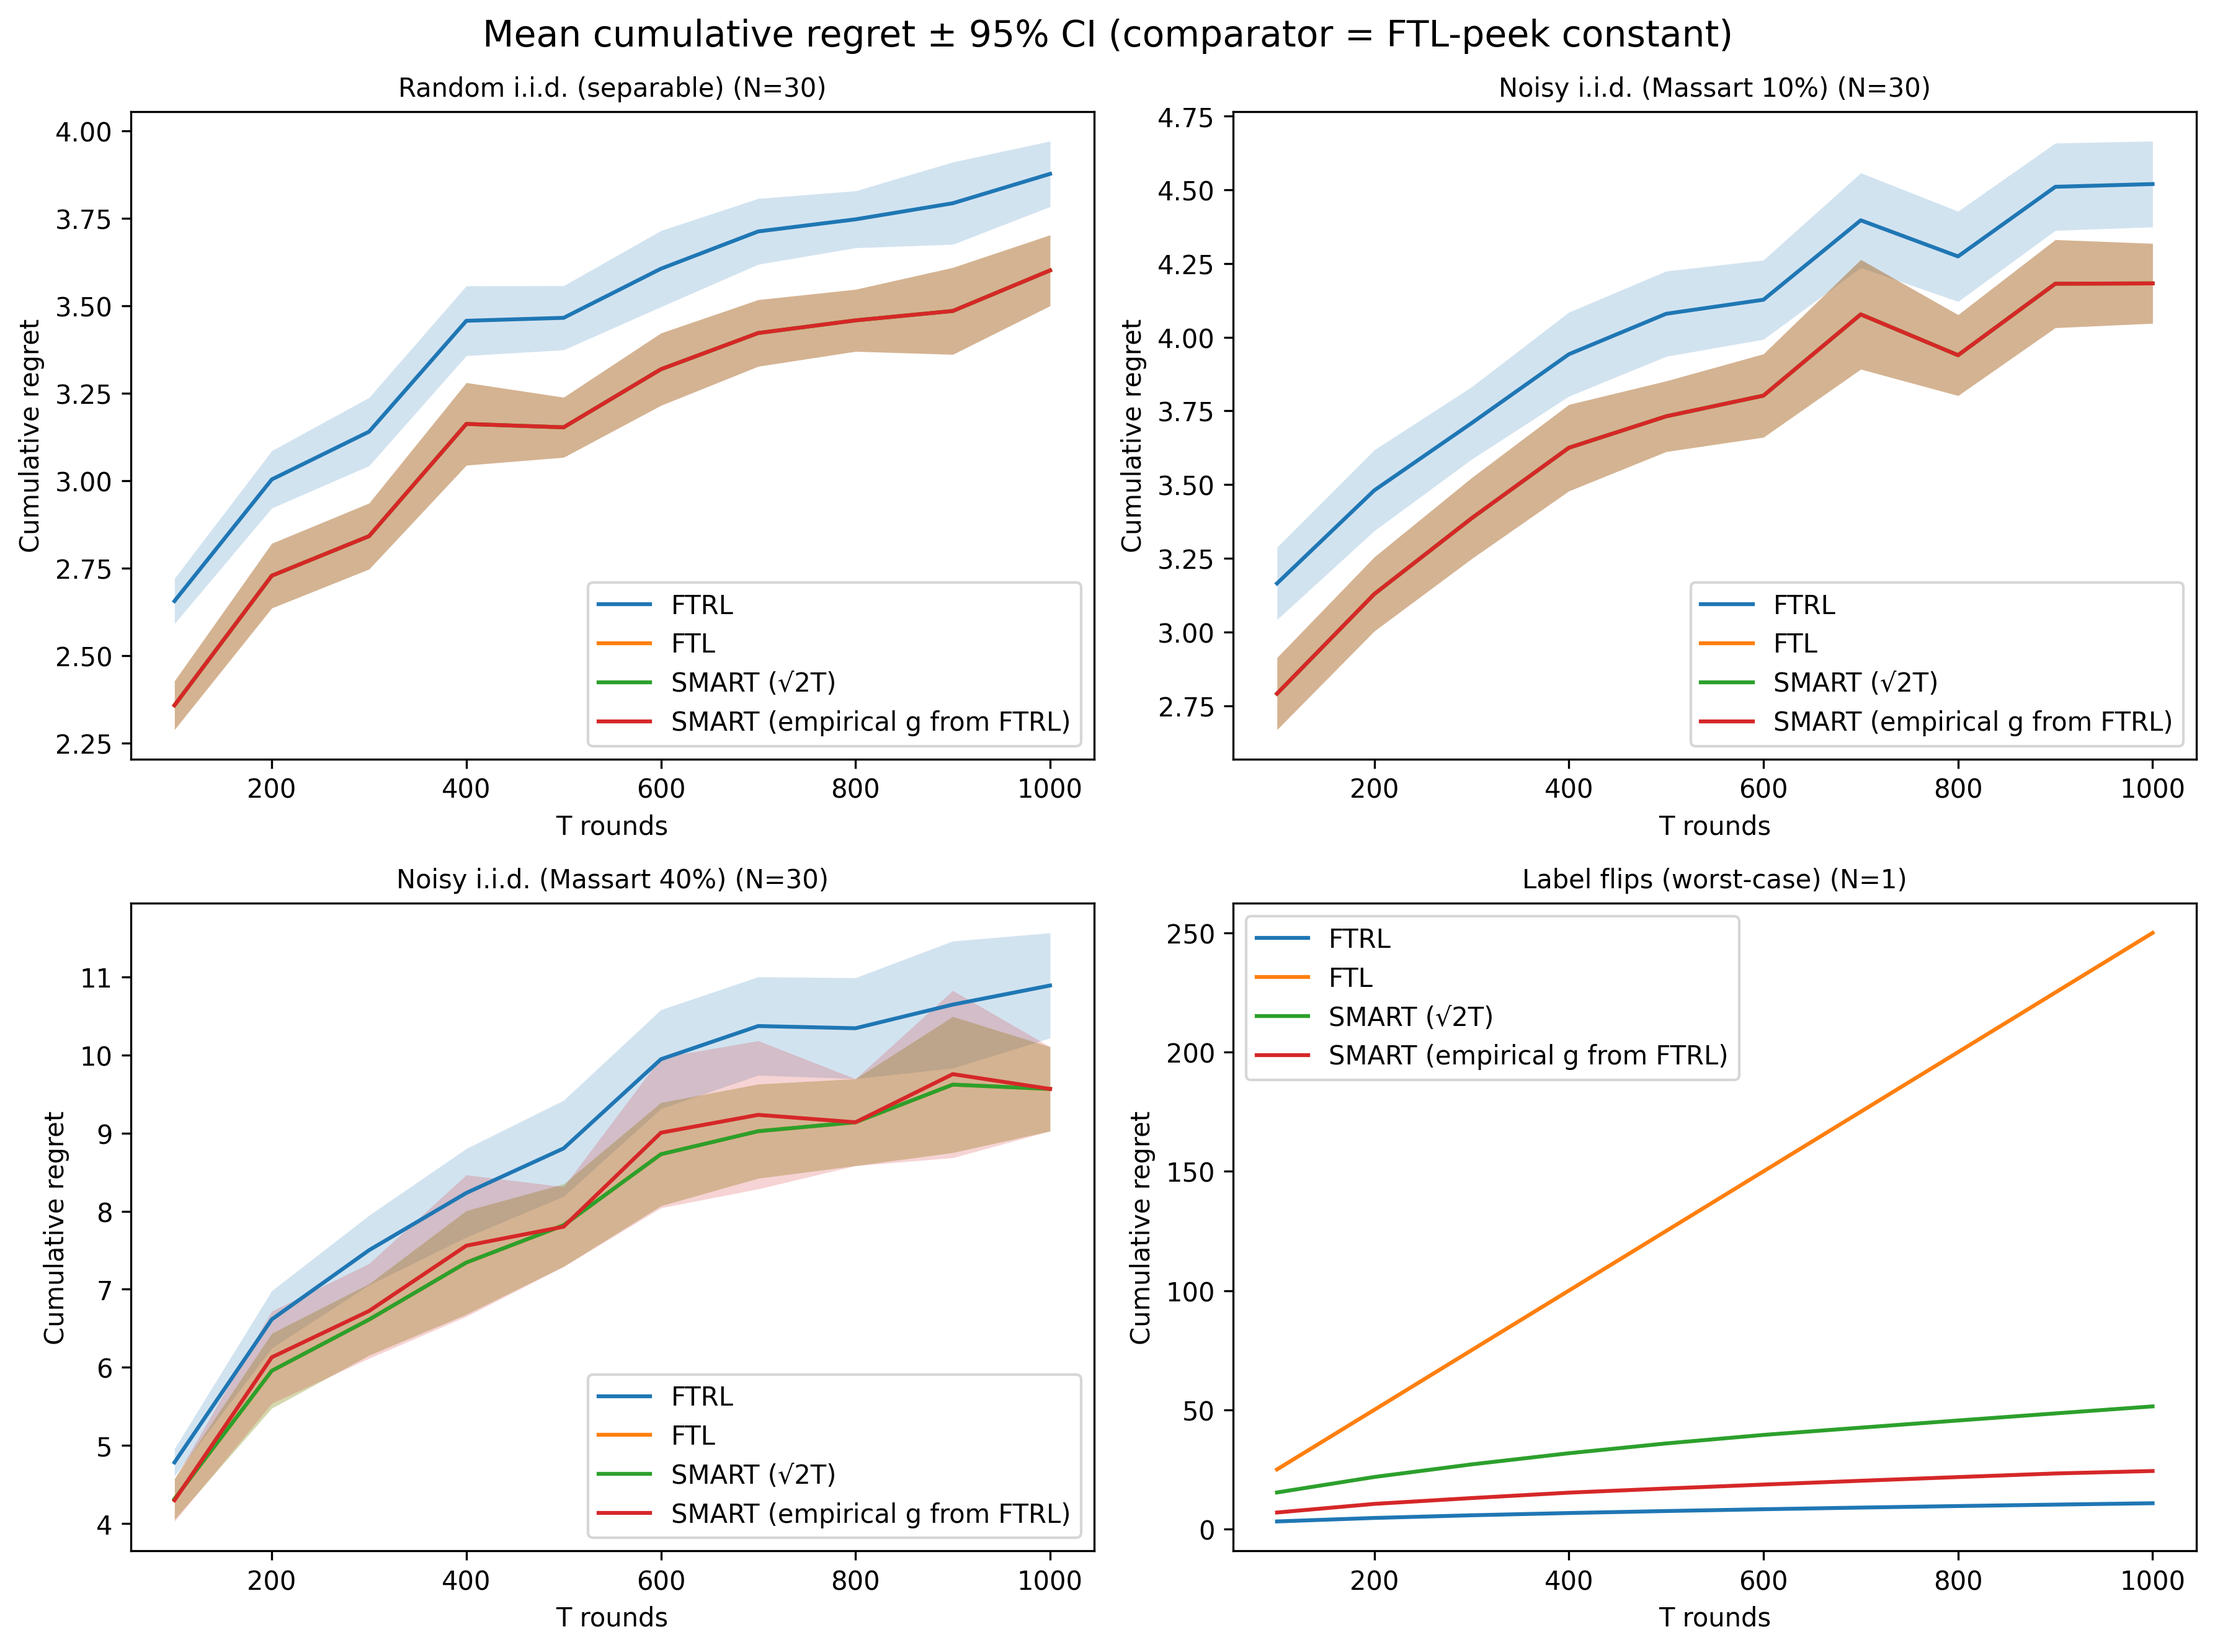
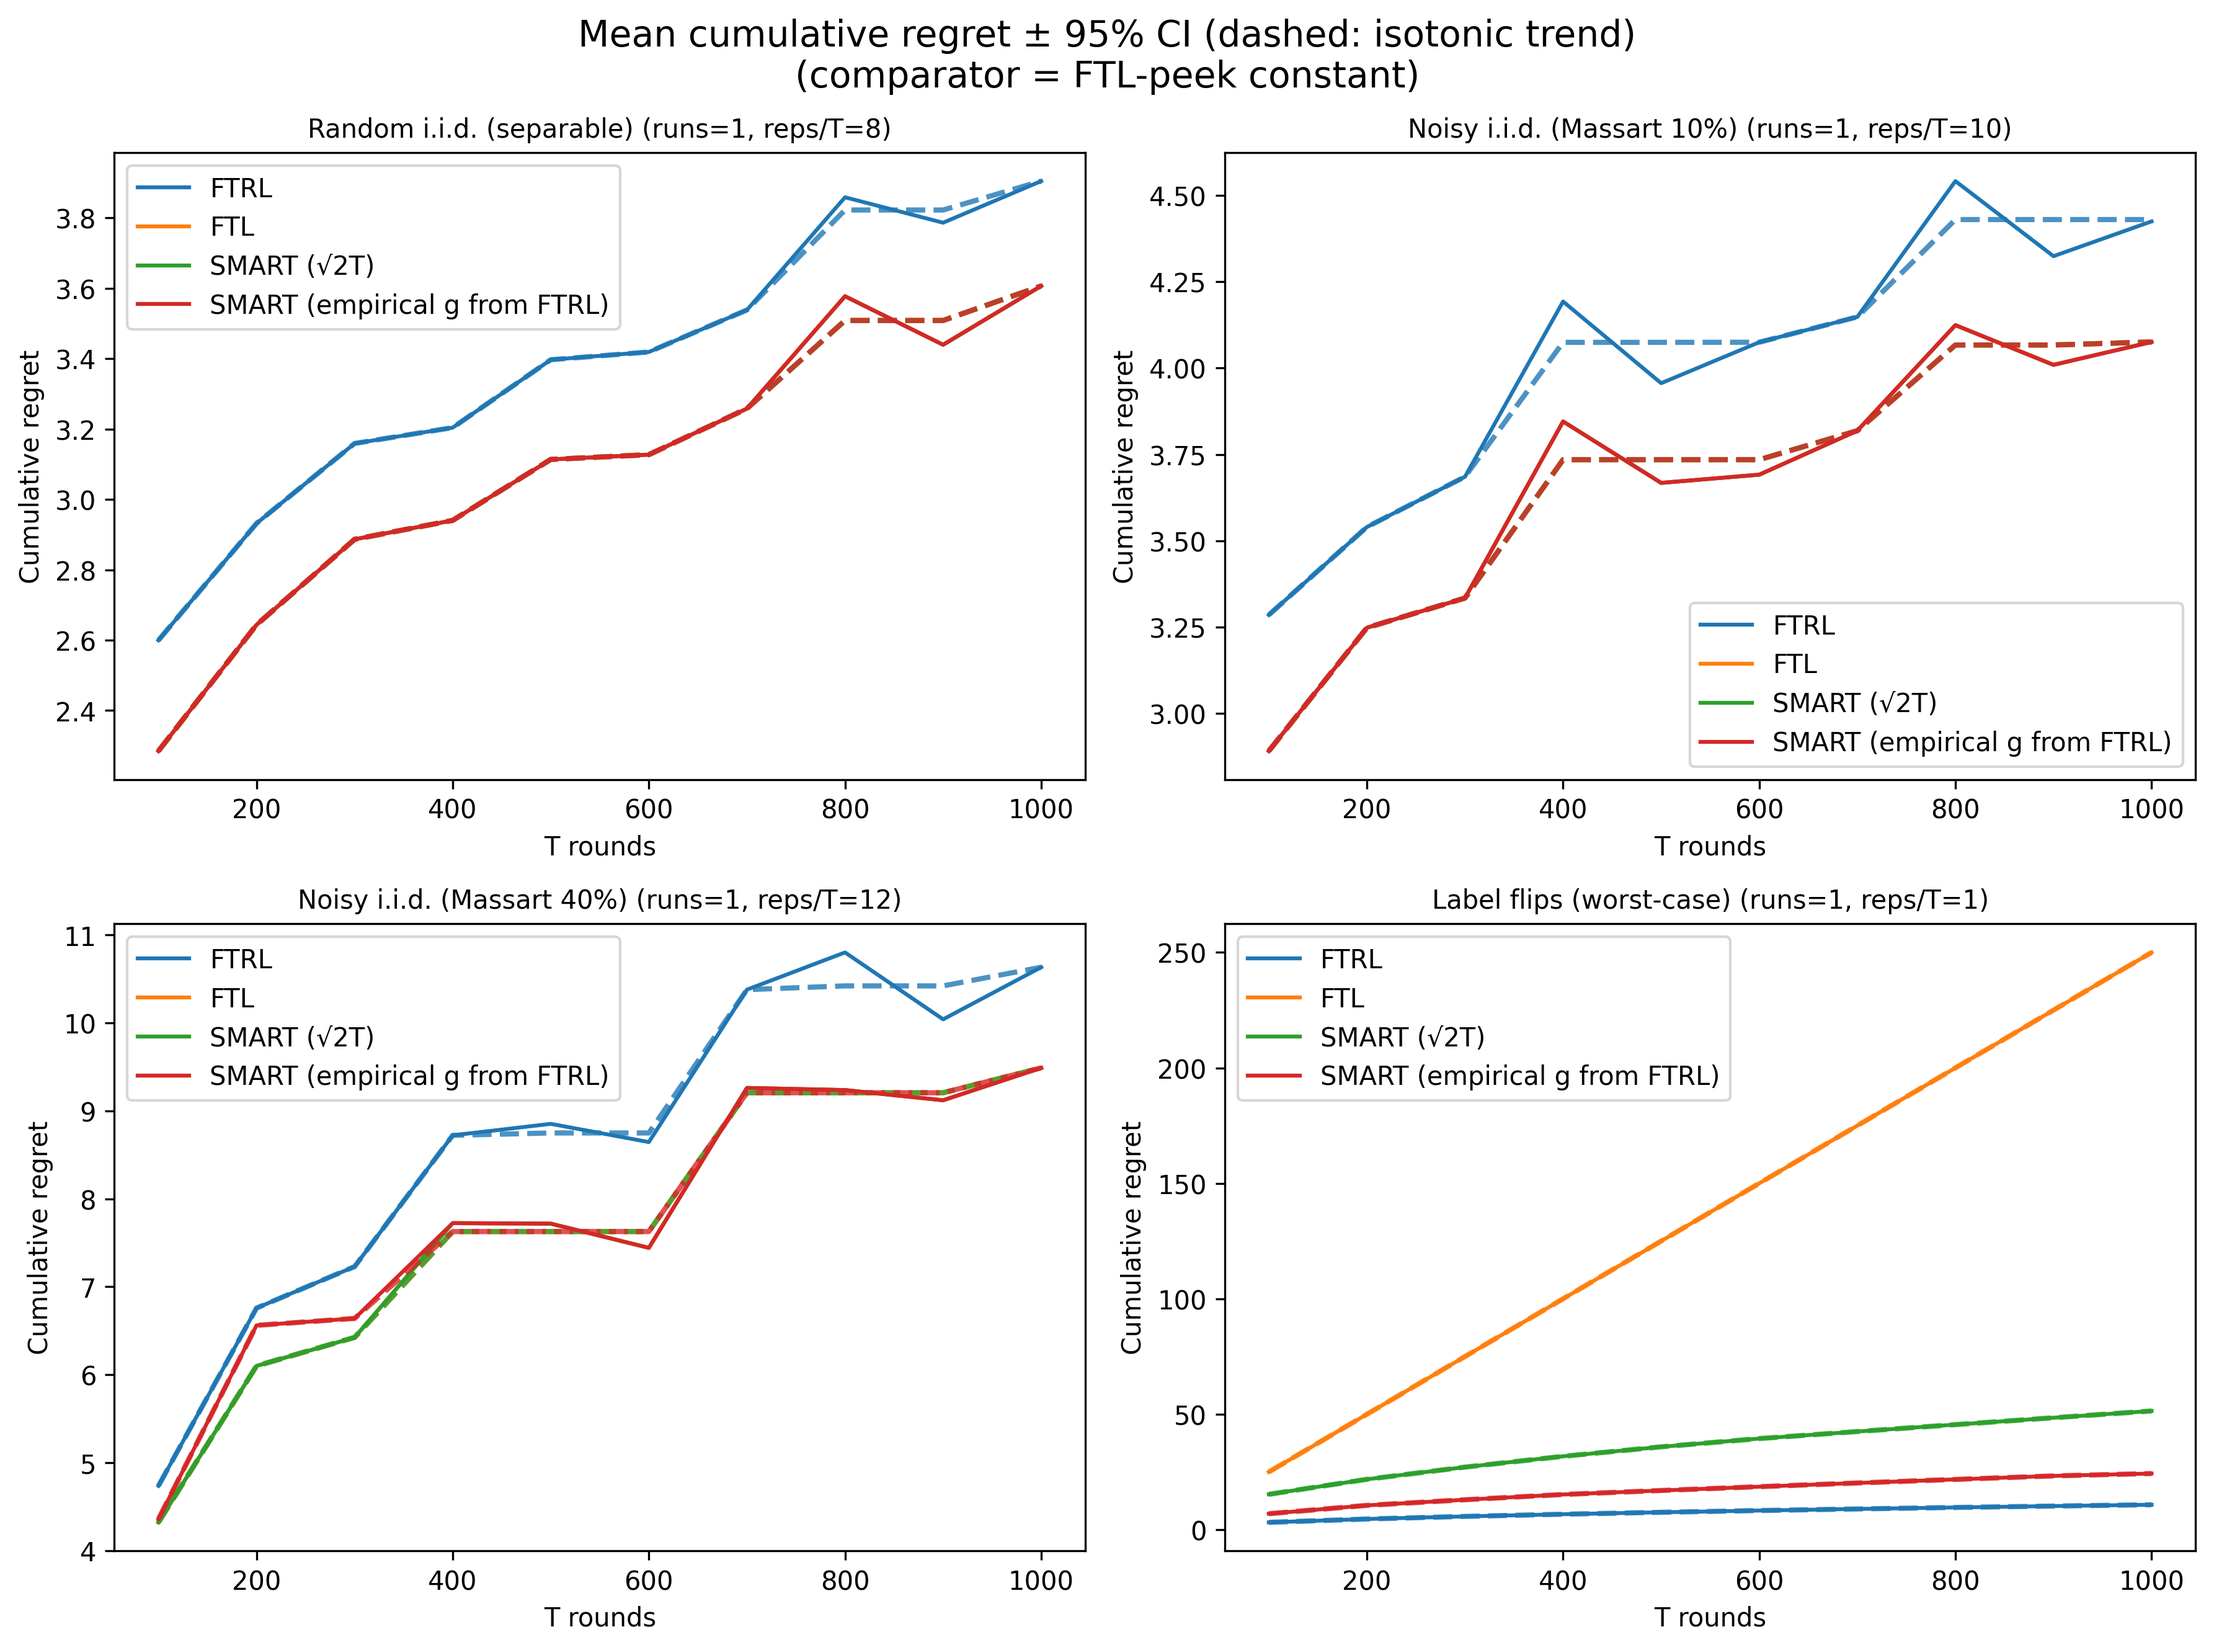
Update evaluation methods in oco.py to include replicate sampling and isotonic trend overlays; refresh algorithm comparison images to reflect these enhancements.

diff --git a/oco.py b/oco.py
@@ -4,9 +4,11 @@ FTRL vs FTL vs SMART vs empirical_g_SMART
   using adversarial-ish sequences, per the SMART framework.
 - Comparator for regret: 'FTL-peek' best constant action in hindsight,
   i.e., normalize sum_t y_t z_t to radius R (no SVM).
-- Evaluation fix: For each stream and run, we *fix the task* (e.g., one u per run),
-  and for each T we draw a *fresh* T-length sequence from that task (no prefixing).
-  This removes cross-T task drift and yields smoother, more meaningful curves.
+- Evaluation smoothing:
+    * For each stream and run, we fix the task (one u per run).
+    * For each T we draw K fresh, independent sequences (replicates) from that task
+      and average within-run across replicates before aggregating across runs.
+    * We still show mean ± 95% CI, and overlay a dashed isotonic (monotone) trend.
 """
 
 from __future__ import annotations
@@ -41,7 +43,7 @@ def regret_increment(q_pred: float, y_true: float, q_comp: float) -> float:
 
 def _seed_for(run_seed: int, T: int, salt: int = 0) -> int:
     """
-    Lightweight seed mixer to get independent RNGs for each (run, T).
+    Lightweight seed mixer to get independent RNGs for each (run, T, replicate).
     Returns a 32-bit seed for RandomState.
     """
     s = (run_seed * 1_000_003) ^ (T * 10_007) ^ (0xA5A5_5A5A + salt)
@@ -193,19 +195,19 @@ def orthogonal_hard_sequence(T: int, R: float = 1.0):
 
 
 # ==============================================================
-# NEW: Stream builders (fix task per run; fresh sequence for each T)
+# Stream builders (fix task per run; fresh sequence per T; now with replicates)
 # ==============================================================
 
 def make_random_iid_stream(*, d: int = 5, R: float = 1.0, run_seed: int = 0):
     """
-    One u per run; for each T we draw a fresh z[1:T] and labels y = sign(z·u).
+    One u per run; for each (T, replicate) we draw a fresh z and labels y = sign(z·u).
     """
     rng_u = np.random.RandomState(_seed_for(run_seed, T=0, salt=11))
     u = rng_u.randn(d)
     u /= max(norm2(u), 1e-12)
 
-    def sample(T: int):
-        rng = np.random.RandomState(_seed_for(run_seed, T=int(T), salt=13))
+    def sample(T: int, rep: int = 0):
+        rng = np.random.RandomState(_seed_for(run_seed, T=int(T), salt=13 + rep))
         z = rng.randn(T, d)
         z = z / np.maximum(np.linalg.norm(z, axis=1, keepdims=True), 1.0) * R
         y = np.sign(z @ u); y[y == 0] = 1.0
@@ -220,8 +222,8 @@ def make_noisy_iid_stream(*, p: float, d: int = 5, R: float = 1.0, run_seed: int
     u = rng_u.randn(d)
     u /= max(norm2(u), 1e-12)
 
-    def sample(T: int):
-        rng = np.random.RandomState(_seed_for(run_seed, T=int(T), salt=23))
+    def sample(T: int, rep: int = 0):
+        rng = np.random.RandomState(_seed_for(run_seed, T=int(T), salt=23 + rep))
         z = rng.randn(T, d)
         z = z / np.maximum(np.linalg.norm(z, axis=1, keepdims=True), 1.0) * R
         y = np.sign(z @ u); y[y == 0] = 1.0
@@ -231,26 +233,35 @@ def make_noisy_iid_stream(*, p: float, d: int = 5, R: float = 1.0, run_seed: int
     return sample
 
 def make_flip_stream(*, d: int = 5, R: float = 1.0, run_seed: int = 0):  # run_seed unused
-    def sample(T: int):
+    def sample(T: int, rep: int = 0):
         return flip_sequence(T, d=d, R=R)
     return sample
 
 
 # --- CASE SET (builders) ---
-CASES: Dict[str, Callable[..., Callable[[int], Tuple[np.ndarray, np.ndarray, np.ndarray]]]] = {
+CASES: Dict[str, Callable[..., Callable[[int, int], Tuple[np.ndarray, np.ndarray, np.ndarray]]]] = {
     "Random i.i.d. (separable)":      lambda *, run_seed, R: make_random_iid_stream(d=5, R=R, run_seed=run_seed),
     "Noisy i.i.d. (Massart 10%)":     lambda *, run_seed, R: make_noisy_iid_stream(p=0.10, d=5, R=R, run_seed=run_seed),
     "Noisy i.i.d. (Massart 40%)":     lambda *, run_seed, R: make_noisy_iid_stream(p=0.40, d=5, R=R, run_seed=run_seed),
     "Label flips (worst-case)":       lambda *, run_seed, R: make_flip_stream(d=5, R=R, run_seed=run_seed),
 }
 
-# Case-specific averaging to reduce variance where needed
+# Case-specific averaging controls
+# Average across tasks
 RUNS_BY_TITLE = {
-    "Random i.i.d. (separable)":       30,
-    "Noisy i.i.d. (Massart 10%)":      30,
-    "Noisy i.i.d. (Massart 40%)":      30,
+    "Random i.i.d. (separable)":       24,
+    "Noisy i.i.d. (Massart 10%)":      24,
+    "Noisy i.i.d. (Massart 40%)":      24,
     "Label flips (worst-case)":         1,
 }
+# Average across replicates
+REPLICATES_BY_TITLE = {
+    "Random i.i.d. (separable)":        8,
+    "Noisy i.i.d. (Massart 10%)":      10,
+    "Noisy i.i.d. (Massart 40%)":      12,
+    "Label flips (worst-case)":         1,
+}
+
 
 
 # ==============================================================
@@ -283,22 +294,61 @@ def empirical_worst_case_thresholds(T_grid: np.ndarray,
 
 
 # ==============================================================
-# Evaluation (means and 95% CIs across runs)
+# Isotonic regression (PAVA) for monotone trend overlays
 # ==============================================================
 
-def evaluate_stream_with_stats(stream_builder: Callable[..., Callable[[int], Tuple[np.ndarray, np.ndarray, np.ndarray]]],
+def isotonic_non_decreasing(y: np.ndarray) -> np.ndarray:
+    """
+    Pool Adjacent Violators Algorithm (PAVA) producing a nondecreasing fit.
+    No external dependencies.
+    """
+    y = np.asarray(y, dtype=float)
+    n = y.size
+    blocks = [{'sum': y[0], 'w': 1.0, 'start': 0, 'end': 0}]
+    for i in range(1, n):
+        blocks.append({'sum': y[i], 'w': 1.0, 'start': i, 'end': i})
+        # Merge while monotonicity is violated
+        while len(blocks) >= 2:
+            a = blocks[-2]; b = blocks[-1]
+            if (a['sum']/a['w']) <= (b['sum']/b['w']):
+                break
+            # pool
+            new = {
+                'sum': a['sum'] + b['sum'],
+                'w':   a['w']   + b['w'],
+                'start': a['start'],
+                'end':   b['end'],
+            }
+            blocks.pop(); blocks.pop(); blocks.append(new)
+
+    yhat = np.zeros(n, dtype=float)
+    for blk in blocks:
+        val = blk['sum'] / blk['w']
+        yhat[blk['start']:blk['end'] + 1] = val
+    return yhat
+
+
+# ==============================================================
+# Evaluation (means and 95% CIs across runs; with replicates per T)
+# ==============================================================
+
+def evaluate_stream_with_stats(stream_builder: Callable[..., Callable[[int, int], Tuple[np.ndarray, np.ndarray, np.ndarray]]],
                                T_grid: np.ndarray,
                                g_emp: Dict[int, float],
                                *,
                                runs: int = 1,
+                               replicates: int = 1,
                                R: float = 1.0,
                                base_seed: int = 0):
     """
-    Returns per-algorithm mean and 95% CI (normal approx) arrays over T_grid.
+    Returns per-algorithm mean and 95% CI arrays over T_grid.
     Keys: 'FTRL', 'FTL', 'SMART', 'EMP'  ->  (means, cis)
 
-    IMPORTANT: We fix the task per run via `stream_builder(run_seed)` and,
-    for each T, sample a fresh sequence (independent across T).
+    Procedure:
+      - For each run, build one task (sampler).
+      - For each T, draw 'replicates' independent datasets from that task,
+        compute regrets on each, average within-run across replicates,
+        then aggregate across runs.
     """
     keys = ["FTRL", "FTL", "SMART", "EMP"]
     by_T: Dict[str, list[list[float]]] = {k: [[] for _ in range(len(T_grid))] for k in keys}
@@ -308,13 +358,19 @@ def evaluate_stream_with_stats(stream_builder: Callable[..., Callable[[int], Tup
         sampler = stream_builder(run_seed=run_seed, R=R)
 
         for ti, T in enumerate(T_grid):
-            z, y, _ = sampler(int(T))  # fresh sequence for this T, same task for this run
-            u_star = comparator_ftl_hindsight(z, y, R=R)
+            # Collect replicate regrets for this (run, T)
+            reps_vals = {k: [] for k in keys}
+            for rep in range(replicates):
+                z, y, _ = sampler(int(T), rep=rep)
+                u_star = comparator_ftl_hindsight(z, y, R=R)
+                reps_vals["FTRL"].append(simulate_alg(z, y, u_star, alg="FTRL", R=R))
+                reps_vals["FTL"].append(simulate_alg(z, y, u_star, alg="FTL",  R=R))
+                reps_vals["SMART"].append(simulate_SMART(z, y, u_star, R=R))
+                reps_vals["EMP"].append(simulate_empirical_g_SMART(z, y, u_star, g_emp[int(T)], R=R))
 
-            by_T["FTRL"][ti].append(simulate_alg(z, y, u_star, alg="FTRL", R=R))
-            by_T["FTL"][ti].append(simulate_alg(z, y, u_star, alg="FTL",  R=R))
-            by_T["SMART"][ti].append(simulate_SMART(z, y, u_star, R=R))
-            by_T["EMP"][ti].append(simulate_empirical_g_SMART(z, y, u_star, g_emp[int(T)], R=R))
+            # Average replicates for this run/T, then store for across-run aggregation
+            for k in keys:
+                by_T[k][ti].append(float(np.mean(reps_vals[k])))
 
     means: Dict[str, list[float]] = {k: [] for k in keys}
     cis:   Dict[str, list[float]] = {k: [] for k in keys}
@@ -334,10 +390,14 @@ def evaluate_stream_with_stats(stream_builder: Callable[..., Callable[[int], Tup
     return stats
 
 
-def _plot_with_ci(ax, x, mean: np.ndarray, ci: np.ndarray, label: str):
+def _plot_with_ci_and_iso(ax, x, mean: np.ndarray, ci: np.ndarray, label: str):
+    # raw mean + 95% CI
     line, = ax.plot(x, mean, label=label)  # default color cycle
     if np.any(ci > 0.0):
         ax.fill_between(x, mean - ci, mean + ci, alpha=0.2, linewidth=0, color=line.get_color())
+    # isotonic (monotone) trend overlay
+    iso = isotonic_non_decreasing(mean)
+    ax.plot(x, iso, linestyle="--", linewidth=2, color=line.get_color(), alpha=0.8)
 
 
 # ==============================================================
@@ -368,22 +428,23 @@ if __name__ == "__main__":
     plt.savefig('empirical_g_T.png', dpi=300, bbox_inches='tight')
     plt.close()
 
-    # 3) Evaluate across streams with CIs (task fixed per run; fresh sequences per T)
+    # 3) Evaluate across streams with per-T replicates and isotonic trend overlays
     rows, cols = 2, 2
     fig, axes = plt.subplots(rows, cols, figsize=(12, 9))
     axes = axes.flatten()
 
     for idx, (title, builder) in enumerate(CASES.items()):
         ax = axes[idx]
-        runs = RUNS_BY_TITLE.get(title, 1)
+        runs       = RUNS_BY_TITLE.get(title, 1)
+        replicates = REPLICATES_BY_TITLE.get(title, 1)
 
-        stats = evaluate_stream_with_stats(builder, T_grid, g_emp, runs=runs, R=R)
-        _plot_with_ci(ax, T_grid, *stats["FTRL"], label="FTRL")
-        _plot_with_ci(ax, T_grid, *stats["FTL"],  label="FTL")
-        _plot_with_ci(ax, T_grid, *stats["SMART"], label="SMART (√2T)")
-        _plot_with_ci(ax, T_grid, *stats["EMP"],   label="SMART (empirical g from FTRL)")
+        stats = evaluate_stream_with_stats(builder, T_grid, g_emp, runs=runs, replicates=replicates, R=R)
+        _plot_with_ci_and_iso(ax, T_grid, *stats["FTRL"], label="FTRL")
+        _plot_with_ci_and_iso(ax, T_grid, *stats["FTL"],  label="FTL")
+        _plot_with_ci_and_iso(ax, T_grid, *stats["SMART"], label="SMART (√2T)")
+        _plot_with_ci_and_iso(ax, T_grid, *stats["EMP"],   label="SMART (empirical g from FTRL)")
 
-        ax.set_title(f"{title} (N={runs})", fontsize=10)
+        ax.set_title(f"{title} (runs={runs}, reps/T={replicates})", fontsize=10)
         ax.set_xlabel("T rounds")
         ax.set_ylabel("Cumulative regret")
         ax.legend()
@@ -391,7 +452,7 @@ if __name__ == "__main__":
     for j in range(len(CASES), rows * cols):
         axes[j].axis('off')
 
-    fig.suptitle("Mean cumulative regret ± 95% CI (comparator = FTL-peek constant)", fontsize=14)
+    fig.suptitle("Mean cumulative regret ± 95% CI (dashed: isotonic trend)\n(comparator = FTL-peek constant)", fontsize=14)
     fig.tight_layout()
     plt.savefig('algorithm_comparison.png', dpi=300, bbox_inches='tight')
     plt.savefig('algorithm_comparison_CI.png', dpi=300, bbox_inches='tight')
